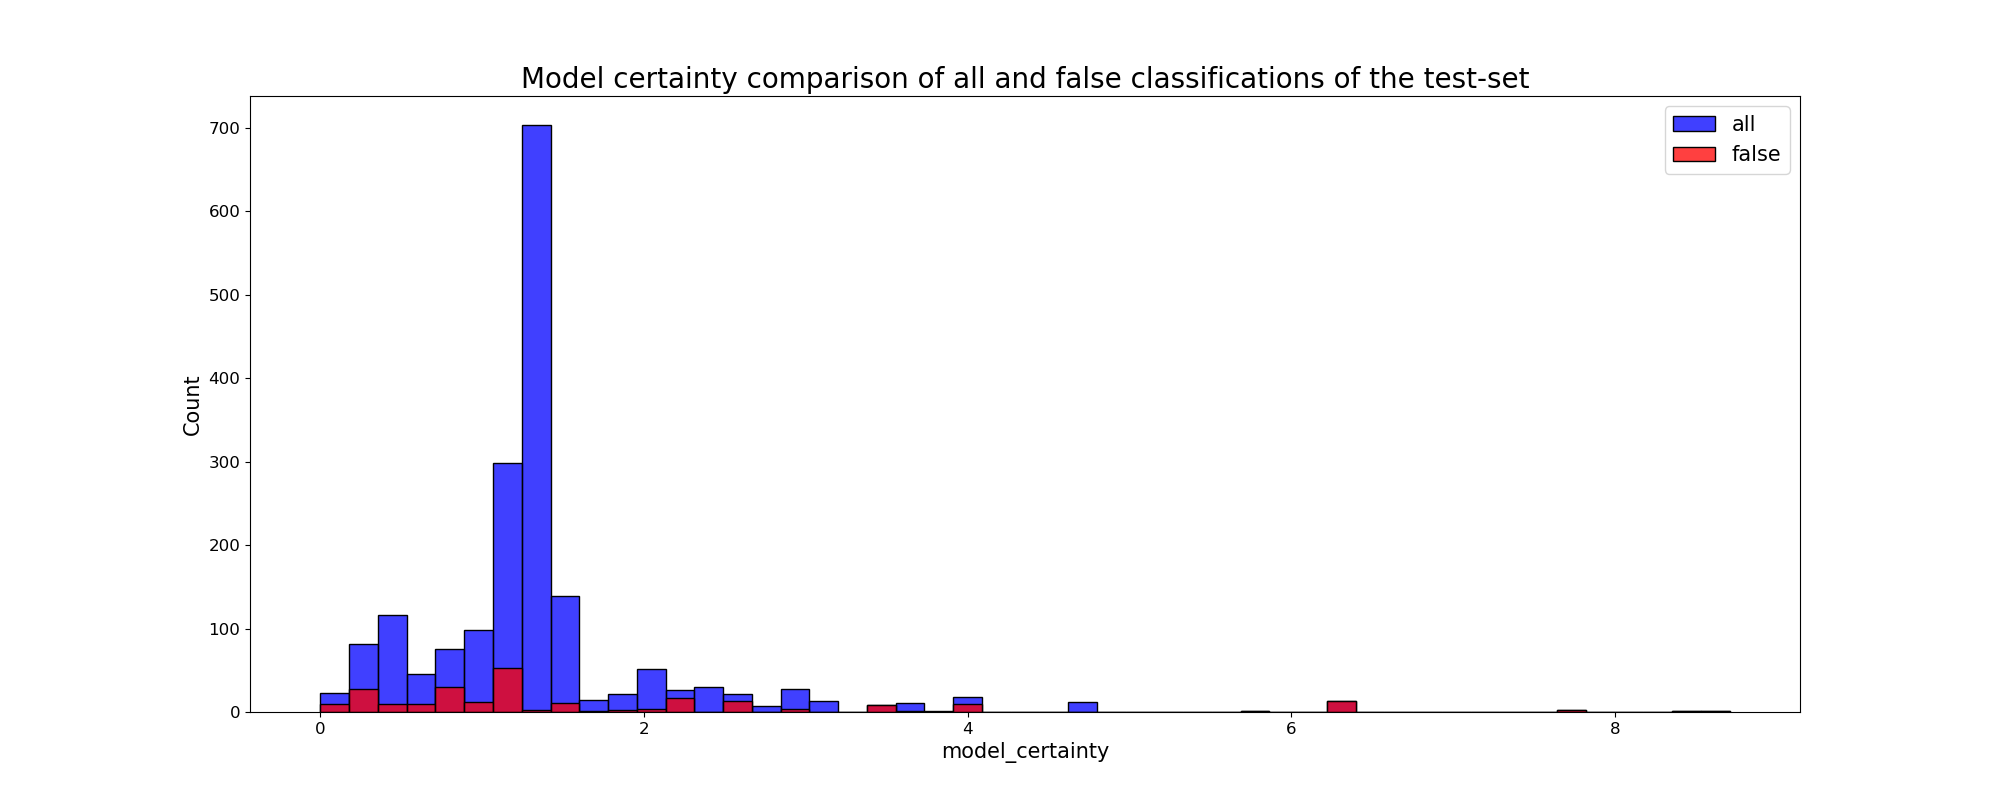
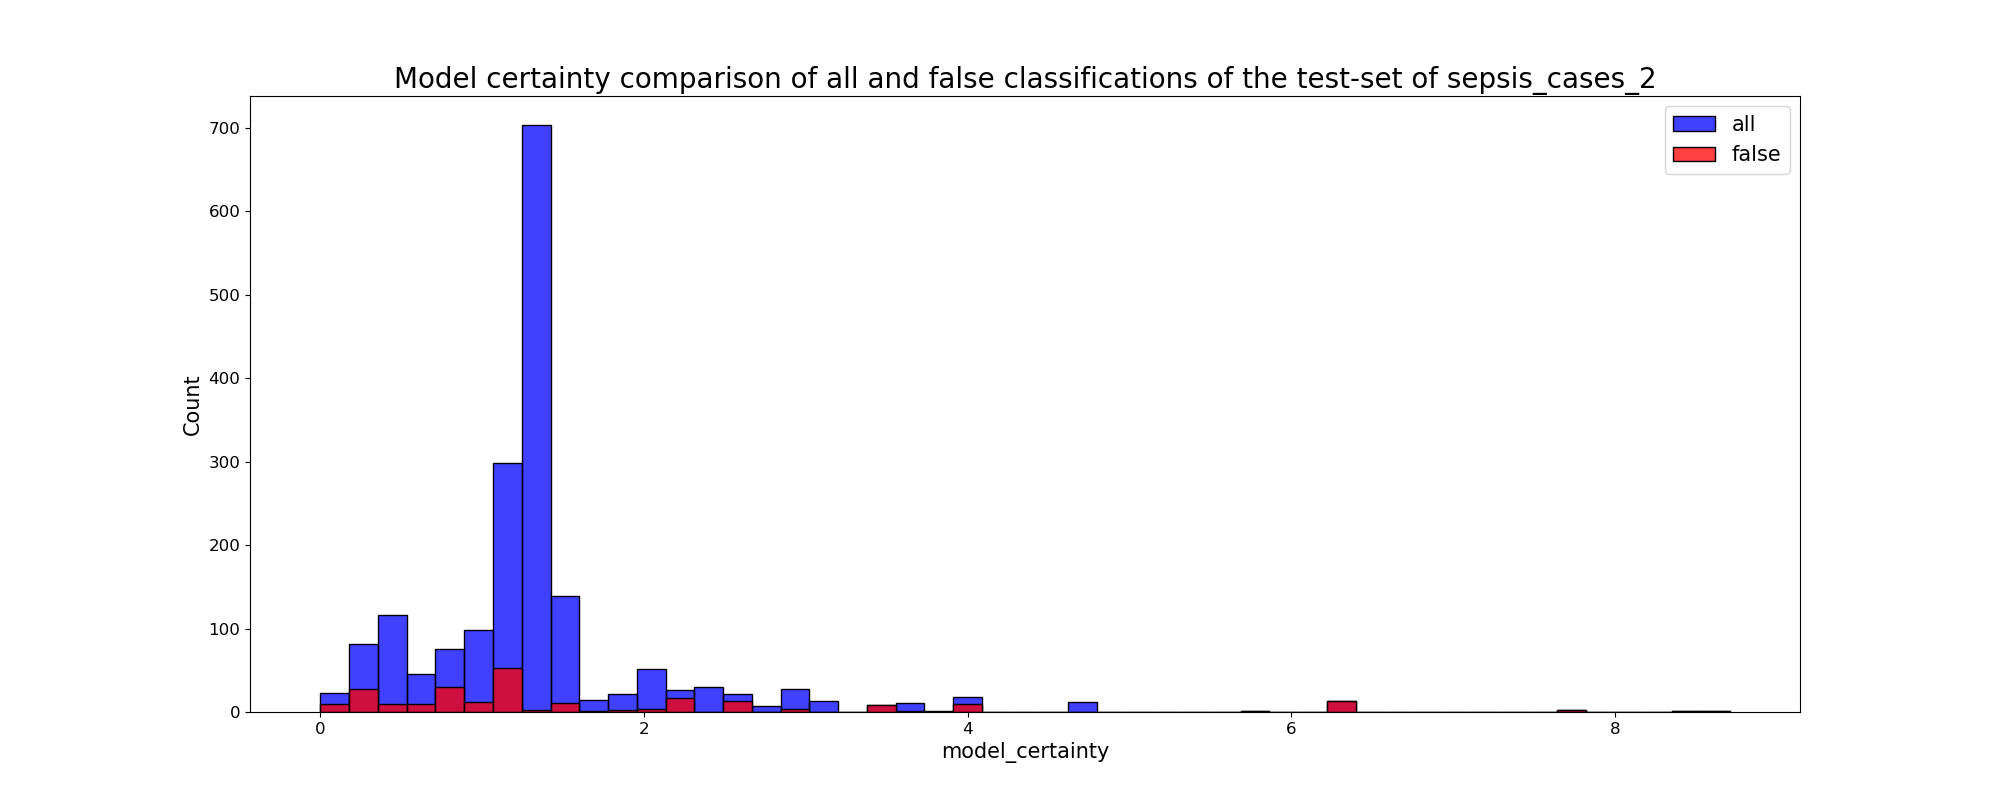
minor changes to images and further analysis guideline

Changed region(s): [[0.186, 0.0625, 0.837, 0.125]]

diff --git a/test_model.py b/test_model.py
@@ -38,40 +38,41 @@ def histplot_model_certainty(dataset_name, columns_sel):
     fig, axs = plt.subplots(1,1)
     sn.histplot(data=df_targets, x='model_certainty', bins=histplot_binning, color='b', label='all')
     sn.histplot(data=false_class_df, x='model_certainty', bins=histplot_binning, color='r', label='false')
-    axs.set_title('Model certainty comparison of all and false classifications of the test-set', fontsize=20)
+    axs.set_title(f'Model certainty comparison of all and false classifications of the test-set of {dataset_name}', fontsize=20)
     axs.legend(fontsize=15)
     axs.set_xlabel('model_certainty', fontsize=15)
     axs.set_ylabel('Count', fontsize=15)
     axs.tick_params(labelsize=12)
-    #plt.savefig('results/images_further-analysis/'+dataset_name+'_hist-certainty.png')
+    plt.savefig('results/further_analysis/'+dataset_name+'_hist-certainty.png')
     plt.show()
 
 
+def determine_columns_sel(dataset_name):
+    if dataset_name == 'sepsis_cases_1':
+            columns_sel = ['Diagnose', 'mean_open_cases', 'Age', 'std_Leucocytes', 'std_CRP']#sepsis_cases_1
+    elif dataset_name == 'sepsis_cases_2':
+            columns_sel = ['Diagnose', 'mean_open_cases', 'mean_hour', 'DisfuncOrg']#sepsis_cases_2
+    elif dataset_name == 'sepsis_cases_4':
+            columns_sel = ['Diagnose', 'mean_open_cases', 'Age', 'org:group_E', 'std_CRP', 'DiagnosticECG']#sepsis_cases_4
+    elif dataset_name == 'bpic2011_f1':
+            columns_sel = ['Diagnosis Treatment Combination ID', 'mean_open_cases', 'Diagnosis', 'Activity code_376400.0']#bpic2011_f1
+    elif dataset_name == 'bpic2011_f2':
+            columns_sel = ['Diagnosis Treatment Combination ID', 'Diagnosis', 'Diagnosis code', 'mean_open_cases', 'Activity code_376400.0', 'Age', 'Producer code_CHE1']#bpic2011_f2
+    elif dataset_name == 'bpic2011_f3':
+            columns_sel = ['Diagnosis Treatment Combination ID', 'Diagnosis', 'mean_open_cases', 'Diagnosis code', 'std_event_nr', 'mean_event_nr']#bpic2011_f3
+    elif dataset_name == 'bpic2011_f4':
+            columns_sel = ['Diagnosis Treatment Combination ID', 'Treatment code']#bpic2011_f4
+    elif dataset_name == 'bpic2012_accepted':
+            columns_sel = ['AMOUNT_REQ', 'Activity_O_SENT_BACK-COMPLETE', 'Activity_W_Valideren aanvraag-SCHEDULE', 'Activity_W_Valideren aanvraag-START']#bpic2012_accepted
+    elif dataset_name == 'bpic2012_declined':
+            columns_sel = ['AMOUNT_REQ', 'Activity_A_PARTLYSUBMITTED-COMPLETE', 'Activity_A_PREACCEPTED-COMPLETE', 'Activity_A_DECLINED-COMPLETE', 'Activity_W_Completeren aanvraag-SCHEDULE', 'mean_open_cases'] #bpic2012_declined
+    elif dataset_name == 'bpic2012_cancelled':
+            columns_sel = ['Activity_O_SENT_BACK-COMPLETE', 'Activity_W_Valideren aanvraag-SCHEDULE', 'Activity_W_Valideren aanvraag-START', 'AMOUNT_REQ', 'Activity_W_Valideren aanvraag-COMPLETE', 'Activity_A_CANCELLED-COMPLETE']#bpic2012_cancelled
+    elif dataset_name == 'production':
+            columns_sel = ['Work_Order_Qty', 'Activity_Turning & Milling - Machine 4', 'Resource_ID0998', 'Resource_ID4794', 'Resource.1_Machine 4 - Turning & Milling']#production
+    return columns_sel
 
-dataset_name = 'production'
+# take sepsis_cases_2, production and bpic2011_f3 for further analysis
 
-if dataset_name == 'sepsis_cases_1':
-        columns_sel = ['Diagnose', 'mean_open_cases', 'Age', 'std_Leucocytes', 'std_CRP']#sepsis_cases_1
-elif dataset_name == 'sepsis_cases_2':
-        columns_sel = ['Diagnose', 'mean_open_cases', 'mean_hour', 'DisfuncOrg']#sepsis_cases_2
-elif dataset_name == 'sepsis_cases_4':
-        columns_sel = ['Diagnose', 'mean_open_cases', 'Age', 'org:group_E', 'std_CRP', 'DiagnosticECG']#sepsis_cases_4
-elif dataset_name == 'bpic2011_f1':
-        columns_sel = ['Diagnosis Treatment Combination ID', 'mean_open_cases', 'Diagnosis', 'Activity code_376400.0']#bpic2011_f1
-elif dataset_name == 'bpic2011_f2':
-        columns_sel = ['Diagnosis Treatment Combination ID', 'Diagnosis', 'Diagnosis code', 'mean_open_cases', 'Activity code_376400.0', 'Age', 'Producer code_CHE1']#bpic2011_f2
-elif dataset_name == 'bpic2011_f3':
-        columns_sel = ['Diagnosis Treatment Combination ID', 'Diagnosis', 'mean_open_cases', 'Diagnosis code', 'std_event_nr', 'mean_event_nr']#bpic2011_f3
-elif dataset_name == 'bpic2011_f4':
-        columns_sel = ['Diagnosis Treatment Combination ID', 'Treatment code']#bpic2011_f4
-elif dataset_name == 'bpic2012_accepted':
-        columns_sel = ['AMOUNT_REQ', 'Activity_O_SENT_BACK-COMPLETE', 'Activity_W_Valideren aanvraag-SCHEDULE', 'Activity_W_Valideren aanvraag-START']#bpic2012_accepted
-elif dataset_name == 'bpic2012_declined':
-        columns_sel = ['AMOUNT_REQ', 'Activity_A_PARTLYSUBMITTED-COMPLETE', 'Activity_A_PREACCEPTED-COMPLETE', 'Activity_A_DECLINED-COMPLETE', 'Activity_W_Completeren aanvraag-SCHEDULE', 'mean_open_cases'] #bpic2012_declined
-elif dataset_name == 'bpic2012_cancelled':
-        columns_sel = ['Activity_O_SENT_BACK-COMPLETE', 'Activity_W_Valideren aanvraag-SCHEDULE', 'Activity_W_Valideren aanvraag-START', 'AMOUNT_REQ', 'Activity_W_Valideren aanvraag-COMPLETE', 'Activity_A_CANCELLED-COMPLETE']#bpic2012_cancelled
-elif dataset_name == 'production':
-        columns_sel = ['Work_Order_Qty', 'Activity_Turning & Milling - Machine 4', 'Resource_ID0998', 'Resource_ID4794', 'Resource.1_Machine 4 - Turning & Milling']#production
-
-
-histplot_model_certainty(dataset_name, columns_sel)
+for name in ['sepsis_cases_1', 'sepsis_cases_2', 'sepsis_cases_4', 'bpic2011_f1', 'bpic2011_f2', 'bpic2011_f3', 'bpic2011_f4', 'bpic2012_accepted', 'bpic2012_accepted', 'bpic2012_cancelled', 'production']:
+    histplot_model_certainty(name, determine_columns_sel(name))
